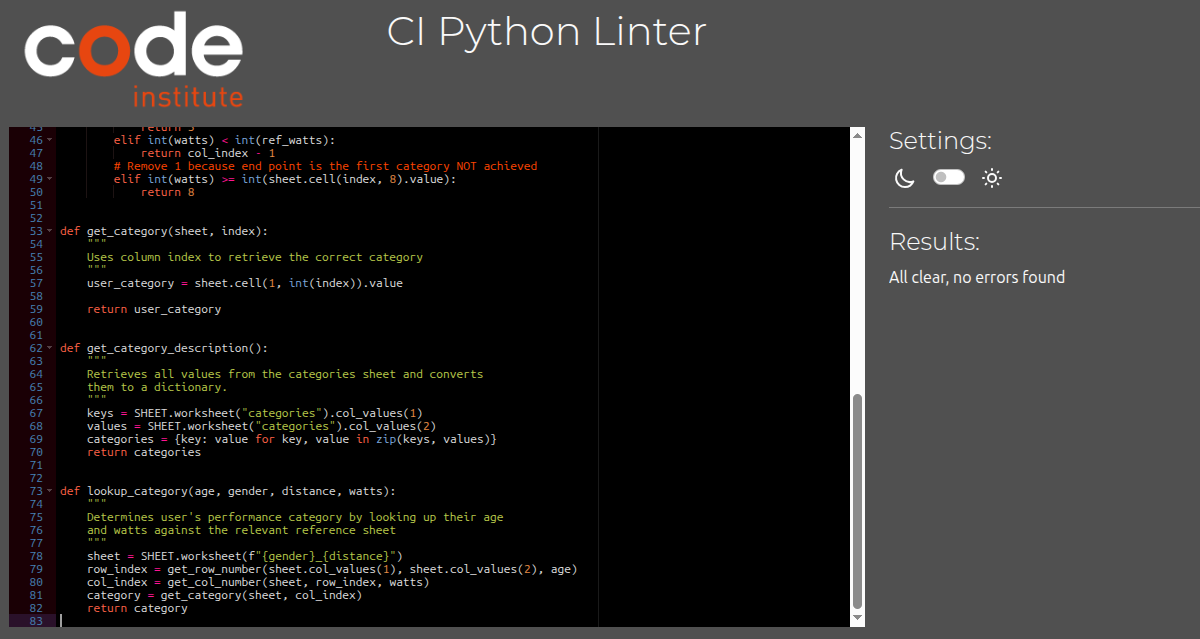
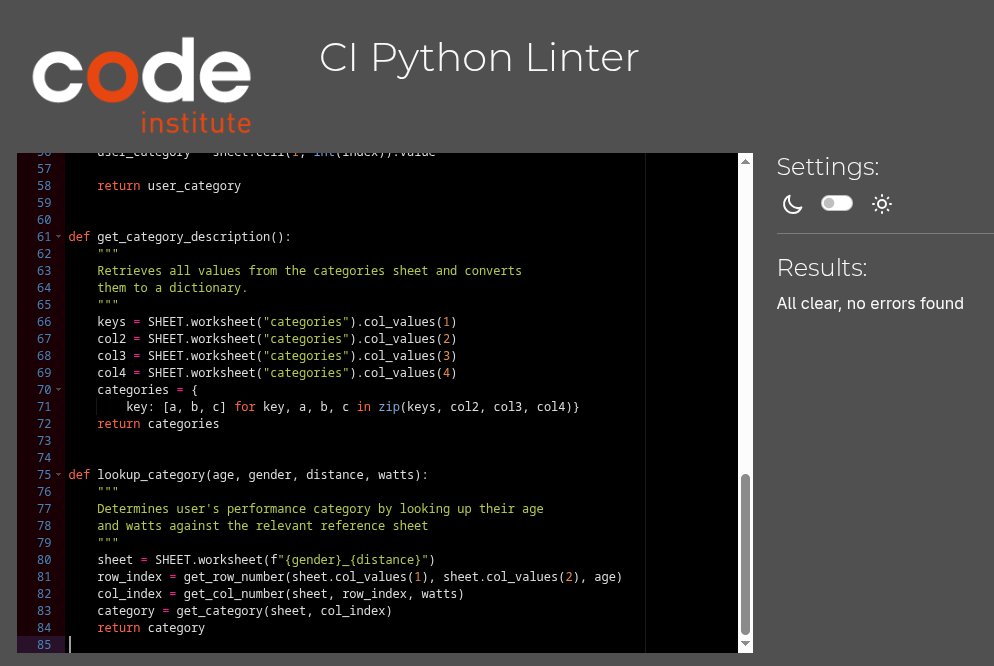
Complete readme for mvp, begin testing.md

Changed region(s): [[0.0, 0.0, 0.9668, 0.9812], [0.3119, 0.0297, 0.6549, 0.1189]]

diff --git a/run.py b/run.py
@@ -13,13 +13,15 @@ def main():
     # Source - https://stackoverflow.com/a/2084628
     typed(
         "Welcome to Row Assist, your indoor rowing assistant.\n"
-        )
+    )
     typed(
-        "You will soon be asked for your age, gender and your latest 2k test time.\n"
-        )
+        "You will soon be asked for your age, "
+        "gender and your latest 2k test time.\n"
+    )
     typed(
-        "I will calculate your split time and watts and provide you with a ranking."
-        )
+        "I will calculate your split time and watts "
+        "and provide you with a ranking."
+    )
     print("\n")
     age = inputs.get_age()
     gender = inputs.get_gender()
@@ -35,7 +37,8 @@ def main():
     category = ref_data.lookup_category(age, gender, distance, watts)
     category_description = ref_data.get_category_description()
     typed(f"Your performance category is {category.title()}!\n")
-    typed(f"You are: {category_description[category][0]}\n{category_description[category][1]}\n{category_description[category][2]}")
+    description = category_description[category]
+    typed(f"You are: {description[0]}\n{description[1]}\n{description[2]}")
     print("\n")
 
 

diff --git a/validate.py b/validate.py
@@ -48,7 +48,8 @@ def validate_time(time, string):
         if int(time) < 0 or int(time) > 59:
             raise ValueError
     except ValueError:
-        utils.typed(f"Invalid entry, please enter a {string} value between 0 and 59")
+        utils.typed(
+            f"Invalid entry, please enter a {string} value between 0 and 59")
         print("\n")
         return False
 
@@ -66,8 +67,7 @@ def validate_tenths(tenths):
             raise ValueError
     except ValueError:
         utils.typed(
-            "Invalid entry, please enter a tenths value between 0 and 9"
-            )
+            "Invalid entry, please enter a tenths value between 0 and 9")
         print("\n")
         return False
 

diff --git a/ref_data.py b/ref_data.py
@@ -67,7 +67,8 @@ def get_category_description():
     col2 = SHEET.worksheet("categories").col_values(2)
     col3 = SHEET.worksheet("categories").col_values(3)
     col4 = SHEET.worksheet("categories").col_values(4)
-    categories = {key: [a, b, c] for key, a, b, c in zip(keys, col2, col3, col4)}
+    categories = {
+        key: [a, b, c] for key, a, b, c in zip(keys, col2, col3, col4)}
     return categories
 
 
@@ -81,4 +82,3 @@ def lookup_category(age, gender, distance, watts):
     col_index = get_col_number(sheet, row_index, watts)
     category = get_category(sheet, col_index)
     return category
-

diff --git a/calc.py b/calc.py
@@ -13,7 +13,7 @@ def calculate_splits(seconds, distance):
     user_split = f"{split_mins}:{str(split_secs).zfill(4)}"
     # z-fill(4) was used because split_secs was always in the format
     # 0.0 so min 4 characters was required to always achieve 00.0
-    
+
     return calc_split, user_split
 
 
@@ -24,5 +24,5 @@ def calculate_watts(split):
     Rounds to nearest int as per row erg monitors
     """
     calc_watts = round(2.8 / (split / 500)**3)
-    
+
     return calc_watts

diff --git a/TESTING.md b/TESTING.md
@@ -1,0 +1,166 @@
+# Testing
+
+> [!NOTE]  
+> Return back to the [README.md](README.md) file.
+
+## Code Validation
+
+### Python
+
+I have used the recommended [PEP8 CI Python Linter](https://pep8ci.herokuapp.com) to validate all of my Python files.
+
+Initially some of the files had several issues but all were largely whitespace errors or line length errors and were easily fixed, prior to deployment.
+
+> ![screenshot of validation errors](documentation/validation/validation_errors.png)
+
+| Directory | File | URL | Screenshot | Notes |
+| --- | --- | --- | --- | --- |
+|  | [calc.py](https://github.com/geraldine-mor/row_assist/blob/main/calc.py) | [PEP8 CI Link](https://pep8ci.herokuapp.com/https://raw.githubusercontent.com/geraldine-mor/row_assist/main/calc.py) | ![screenshot of calc.py no issues](documentation/validation/calc_validation.png) |  |
+|  | [inputs.py](https://github.com/geraldine-mor/row_assist/blob/main/inputs.py) | [PEP8 CI Link](https://pep8ci.herokuapp.com/https://raw.githubusercontent.com/geraldine-mor/row_assist/main/inputs.py) | ![screenshot of inputs.py no issues](documentation/validation/inputs_validation.png) |  |
+|  | [ref_data.py](https://github.com/geraldine-mor/row_assist/blob/main/ref_data.py) | [PEP8 CI Link](https://pep8ci.herokuapp.com/https://raw.githubusercontent.com/geraldine-mor/row_assist/main/ref_data.py) | ![screenshot of ref_data.py no issues](documentation/validation/ref_data_validation.png) |  |
+|  | [run.py](https://github.com/geraldine-mor/row_assist/blob/main/run.py) | [PEP8 CI Link](https://pep8ci.herokuapp.com/https://raw.githubusercontent.com/geraldine-mor/row_assist/main/run.py) | ![screenshot of run.py no issues](documentation/validation/run_validation.png) |  |
+|  | [utils.py](https://github.com/geraldine-mor/row_assist/blob/main/utils.py) | [PEP8 CI Link](https://pep8ci.herokuapp.com/https://raw.githubusercontent.com/geraldine-mor/row_assist/main/utils.py) | ![screenshot of utils.py no issues](documentation/validation/utils_validation.png) |  |
+|  | [validate.py](https://github.com/geraldine-mor/row_assist/blob/main/validate.py) | [PEP8 CI Link](https://pep8ci.herokuapp.com/https://raw.githubusercontent.com/geraldine-mor/row_assist/main/validate.py) | ![screenshot](documentation/validation/validate_validation.png) |  |
+
+
+## Responsiveness
+
+Due to the command-line nature of this application, traditional responsiveness testing across devices and screen sizes is not applicable.
+
+## Browser Compatibility
+
+This project is a Python command-line only application deployed via The Code Institue's web terminal interface. Browser compatibility testing focuses on whether the terminal interface renders correctly rather than application-specific functionality and as such is not applicable.
+
+## Lighthouse Audit
+
+Lighthouse audits are not applicable to this project since they do not test the Python command-line application but rather focus on the provided interface.
+
+## Defensive Programming
+
+⚠ INSTRUCTIONS ⚠
+
+Defensive programming (defensive design) is extremely important! When building projects that accept user inputs or forms, you should always test the level of security for each form field. Examples of this could include (but not limited to):
+
+All Projects:
+
+- Users cannot submit an empty form (add the `required` attribute)
+- Users must enter valid field types (ensure the correct input `type=""` is used)
+- Users cannot brute-force a URL to navigate to a restricted pages
+
+Python Projects:
+
+- Users cannot perform CRUD functionality if not authenticated (if login functionality exists)
+- User-A should not be able to manipulate data belonging to User-B, or vice versa
+- Non-Authenticated users should not be able to access pages that require authentication
+- Standard users should not be able to access pages intended for superusers/admins
+
+You'll want to test all functionality on your application, whether it's a standard form, or CRUD functionality, for data manipulation on a database. Try to access various pages on your site as different user types (User-A, User-B, guest user, admin, superuser). You should include any manual tests performed, and the expected results/outcome.
+
+Testing should be replicable (can someone else replicate the same outcome?). Ideally, tests cases should focus on each individual section of every page on the website. Each test case should be specific, objective, and step-wise replicable.
+
+Instead of adding a general overview saying that everything works fine, consider documenting tests on each element of the page (eg. button clicks, input box validation, navigation links, etc.) by testing them in their "happy flow", their "bad/exception flow", mentioning the expected and observed results, and drawing a parallel between them where applicable.
+
+Consider using the following format for manual test cases:
+
+- Expected Outcome / Test Performed / Result Received / Fixes Implemented
+
+- **Expected**: "Feature is expected to do X when the user does Y."
+- **Testing**: "Tested the feature by doing Y."
+- (either) **Result**: "The feature behaved as expected, and it did Y."
+- (or) **Result**: "The feature did not respond to A, B, or C."
+- **Fix**: "I did Z to the code because something was missing."
+
+Use the table below as a basic start, and expand on it using the logic above.
+
+⚠ --- END --- ⚠
+
+Defensive programming was manually tested with the below user acceptance testing:
+
+| Feature | Expectation | Test | Result | Screenshot |
+| --- | --- | --- | --- | --- |
+| Sales Input | Feature is expected to allow users to input the number of each sandwich type sold during the day. | Entered sales data for various sandwich types using a mock dataset. | Sales data was successfully recorded and saved. | ![screenshot](documentation/defensive/sales-input.png) |
+| | Feature is expected to minimize typing for quick input. | Used pre-defined options for sandwich types to streamline data entry. | Input process was fast and required minimal typing. | ![screenshot](documentation/defensive/quick-input.png) |
+| Sales Breakdown | Feature is expected to show a breakdown of total sandwich sales by type. | Reviewed the breakdown output after entering sales data. | Breakdown displayed correctly, with sales totals for each sandwich type. | ![screenshot](documentation/defensive/sales-breakdown.png) |
+| | Feature is expected to categorize sandwiches by type (e.g., vegetarian, meat, cheese). | Checked the categorization of sandwiches in the breakdown. | Sandwiches were correctly categorized by dietary type. | ![screenshot](documentation/defensive/categorization.png) |
+| Total Sales | Feature is expected to calculate the total sandwiches sold for the day. | Verified the total sales calculation with a known dataset. | Total sales calculation matched the expected result. | ![screenshot](documentation/defensive/total-sales.png) |
+| Trends | Feature is expected to display a trend of sandwich sales over time (e.g., week, month). | Input sales data for a week and reviewed the trend output. | Trends were displayed accurately for the selected timeframe. | ![screenshot](documentation/defensive/sales-trend.png) |
+| Suggestions | Feature is expected to suggest estimated sales for the next day based on past sales data. | Input past sales data and reviewed next-day suggestions. | Suggestions were reasonable and based on past sales trends. | ![screenshot](documentation/defensive/sales-suggestions.png) |
+| Usability | Feature is expected to be intuitive and easy to use. | Used the app without referring to documentation or prior knowledge. | App was intuitive and user-friendly for sales tracking. | ![screenshot](documentation/defensive/usability.png) |
+
+## User Story Testing
+
+⚠ INSTRUCTIONS ⚠
+
+Testing User Stories is actually quite simple, once you've already got the stories defined on your README.
+
+Most of your project's **Features** should already align with the **User Stories**, so this should be as simple as creating a table with the User Story, matching with the re-used screenshot from the respective Feature.
+
+⚠ --- END --- ⚠
+
+| Target | Expectation | Outcome | Screenshot |
+| --- | --- | --- | --- |
+| As a user | I would like to input the number of each sandwich type sold during the day | so that I can track daily sales accurately. | ![screenshot](documentation/features/feature01.png) |
+| As a user | I would like to view a breakdown of total sandwich sales by type | so that I can easily see which sandwiches are the most and least popular. | ![screenshot](documentation/features/feature02.png) |
+| As a user | I would like the application to calculate the total sandwiches sold for the day | so that I don’t have to do manual sums. | ![screenshot](documentation/features/feature03.png) |
+| As a user | I would like to see a trend of sandwich sales over time (e.g., week, month) | so that I can identify which sandwiches are consistently popular. | ![screenshot](documentation/features/feature04.png) |
+| As a user | I would like the application to suggest an estimated number of each sandwich type to make for the next day, based on past sales data | so that I can minimize waste and shortages. | ![screenshot](documentation/features/feature05.png) |
+| As a user | I would like the app to categorize sandwiches by type (e.g., vegetarian, meat, cheese) | so that I can track popularity within different dietary categories. | ![screenshot](documentation/features/feature06.png) |
+| As a user | I would like to input sales quickly with minimal typing | so that I can focus on running the shop instead of logging data. | ![screenshot](documentation/features/feature07.png) |
+| As a user | I would like the app to be intuitive and easy to use | so that I can start tracking sales without needing extensive training. | ![screenshot](documentation/features/feature08.png) |
+
+## Bugs
+
+⚠ INSTRUCTIONS ⚠
+
+Nobody likes bugs,... except the assessors! Projects seem more suspicious if a student doesn't properly track their bugs. If you're about to submit your project without any bugs listed below, you should ask yourself why you're doing this course in the first place, if you're able to build this entire application without running into any bugs. The best thing you can do for any project is to document your bugs! Not only does it show the true stages of development, but think of it as breadcrumbs for yourself in the future, should you encounter the same/similar bug again, it acts as a gentle reminder on what you did to fix the bug.
+
+If/when you encounter bugs during the development stages of your project, you should document them here, ideally with a screenshot explaining what the issue was, and what you did to fix the bug.
+
+Alternatively, an improved way to manage bugs is to use the built-in **[Issues](https://www.github.com/geraldine-mor/row_assist/issues)** tracker on your GitHub repository. This can be found at the top of your repository, the tab called "Issues".
+
+If using the Issues tracker for bug management, you can simplify the documentation process for testing. Issues allow you to directly paste screenshots into the issue page without having to first save the screenshot locally. You can add labels to your issues (e.g. `bug`), assign yourself as the owner, and add comments/updates as you progress with fixing the issue(s). Once you've solved the issue/bug, you should then "Close" it.
+
+When showcasing your bug tracking for assessment, you can use the following examples below.
+
+⚠ --- END --- ⚠
+
+### Fixed Bugs
+
+[![GitHub issue custom search](https://img.shields.io/github/issues-search/geraldine-mor/row_assist?query=is%3Aissue%20is%3Aclosed%20label%3Abug&label=Fixed%20Bugs&color=green)](https://www.github.com/geraldine-mor/row_assist/issues?q=is%3Aissue+is%3Aclosed+label%3Abug)
+
+I've used [GitHub Issues](https://www.github.com/geraldine-mor/row_assist/issues) to track and manage bugs and issues during the development stages of my project.
+
+All previously closed/fixed bugs can be tracked [here](https://www.github.com/geraldine-mor/row_assist/issues?q=is%3Aissue+is%3Aclosed+label%3Abug).
+
+![screenshot](documentation/bugs/gh-issues-closed.png)
+
+### Unfixed Bugs
+
+⚠ INSTRUCTIONS ⚠
+
+You will need to mention any unfixed bugs and why they are not fixed upon submission of your project. This section should include shortcomings of the frameworks or technologies used. Although time can be a big variable to consider, paucity of time and difficulty understanding implementation is not a valid reason to leave bugs unfixed. Where possible, you must fix all outstanding bugs, unless outside of your control.
+
+If you've identified any unfixed bugs, no matter how small, be sure to list them here! It's better to be honest and list them, because if it's not documented and an assessor finds the issue, they need to know whether or not you're aware of them as well, and why you've not corrected/fixed them.
+
+⚠ --- END --- ⚠
+
+[![GitHub issue custom search](https://img.shields.io/github/issues-search/geraldine-mor/row_assist?query=is%3Aissue%2Bis%3Aopen%2Blabel%3Abug&label=Unfixed%20Bugs&color=red)](https://www.github.com/geraldine-mor/row_assist/issues?q=is%3Aissue+is%3Aopen+label%3Abug)
+
+Any remaining open issues can be tracked [here](https://www.github.com/geraldine-mor/row_assist/issues?q=is%3Aissue+is%3Aopen+label%3Abug).
+
+![screenshot](documentation/bugs/gh-issues-open.png)
+
+### Known Issues
+
+| Issue | Screenshot |
+| --- | --- |
+| The project is designed to be responsive from `375px` and upwards, in line with the material taught on the course LMS. Minor layout inconsistencies may occur on extra-wide (e.g. 4k/8k monitors), or smart-display devices (e.g. Nest Hub, Smart Watches, Gameboy Color, etc.), as these resolutions are outside the project’s scope, as taught by Code Institute. | ![screenshot](documentation/issues/poor-responsiveness.png) |
+| When using a helper `clear()` function, any text above the height of the terminal (24 lines) does not clear, and remains when scrolling up. | ![screenshot](documentation/issues/clear-scrolling.png) |
+| The `colorama` terminal colors are fainter on Heroku when compared to the IDE locally. | ![screenshot](documentation/issues/colorama.png) |
+| Emojis are cut-off when viewing the application from Firefox. | ![screenshot](documentation/issues/emojis.png) |
+| The Python terminal doesn't work well with Safari, and sometimes uses cannot type in the application. | ![screenshot](documentation/issues/safari.png) |
+| If a user types `CTRL`+`C` in the terminal on the live site, they can manually stop the application and receive and error. | ![screenshot](documentation/issues/ctrl-c.png) |
+
+> [!IMPORTANT]  
+> There are no remaining bugs that I am aware of, though, even after thorough testing, I cannot rule out the possibility.
+

diff --git a/README.md b/README.md
@@ -503,6 +503,7 @@ There are no remaining major differences between the local version when compared
 | [gspread](https://docs.gspread.org/en/latest/user-guide.html#getting-a-cell-value) | `.cell(row, col).value` Retrieving a cell value |
 | [Colorama](https://www.youtube.com/watch?v=u51Zjlnui4Y) | Adding color in Python |
 | [StackOverflow](https://stackoverflow.com/questions/2084508/clear-the-terminal-in-python) | Clear the terminal screen |
+| [Botanic Garden Berlin Museum](https://www.bgbm.org/cdefd/collectionmodel/dsd.htm) | Data structure diagram example |
 | [ChatGPT](https://chatgpt.com) | Help with planning and explanations |
 | [Claude](https://claude.ai) | Development support and technical guidance |
 
@@ -518,7 +519,19 @@ There are no remaining major differences between the local version when compared
 
 ### AI Use
 
-⚠ --- Include section clearly detailing AI use for this project and include screenshots ---⚠
+AI tools [chatGPT](https://chatgpt.com) and [Claude](https://claude.ai) were used throughout the planning and development process as a learning aid to clarify concepts and principles, and explain Python behaviours and errors.
+
+It was also used as a sounding board to help explain new concepts such as modules, data modeling and diagrams and to help map out my own thoughts to guide me towards decisions. 
+
+I requested that both models used the Socratic approach and instructed both to avoid showing solutions or writing code on my behalf. I switched to Claude because chatGPT might fall out of character and reveal solutions if I forgot to reiterate this request each time I would share my code.
+
+>_chatGPT example_
+>
+> ![screenshot of chatGPT conversation](documentation/chatgpt_example.png)
+
+>_Claude example_
+>
+>![screenshot of claude conversation](documentation/claude_example.png)
 
 ### Acknowledgements
 
